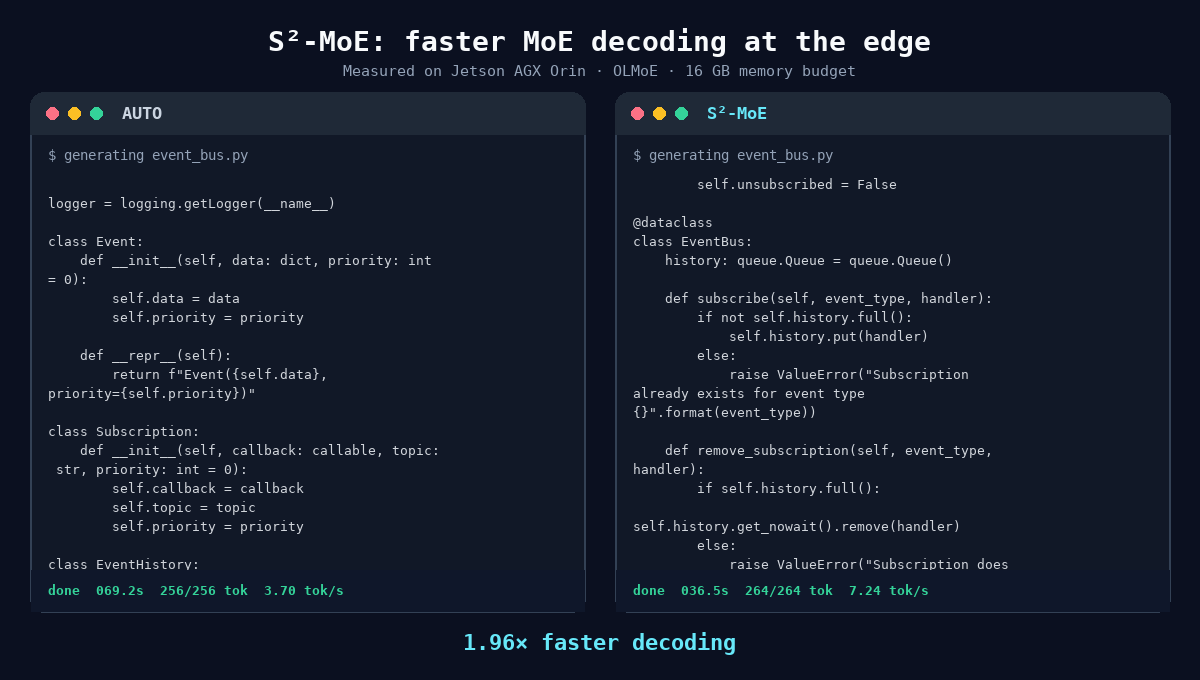
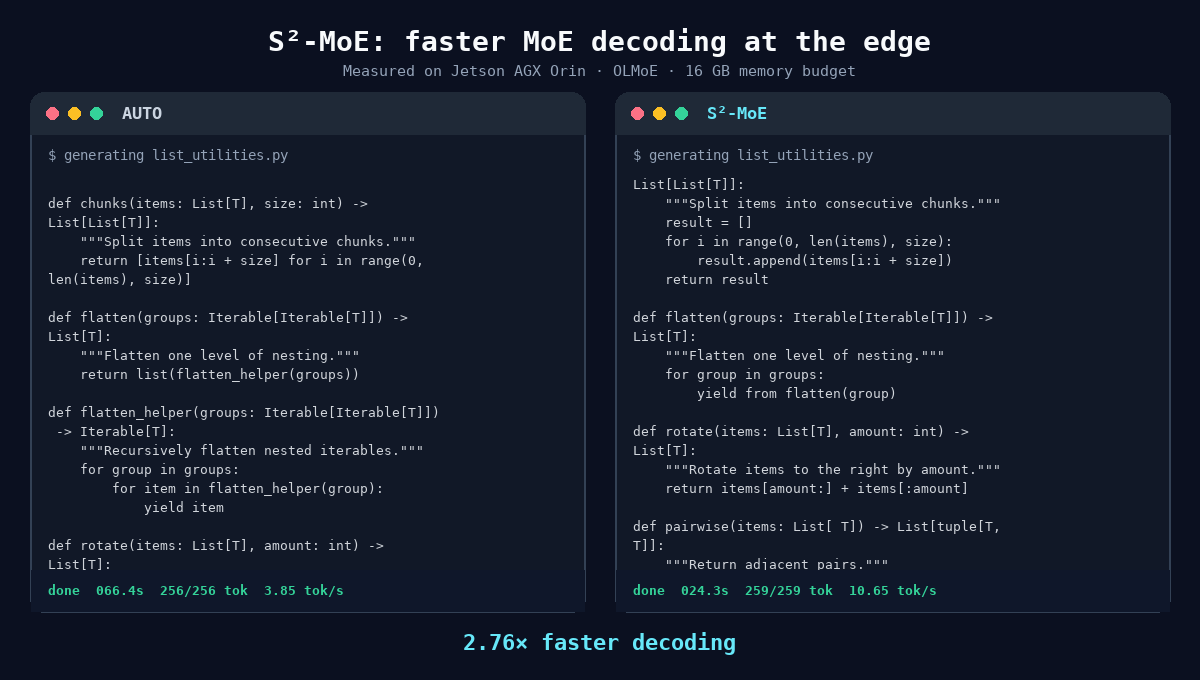
docs: highlight representative S2-MoE results

diff --git a/README.md b/README.md
@@ -31,9 +31,9 @@ The animation replays measured OLMoE decoding traces on a Jetson AGX Orin under 
 
 ## Results at a glance
 
-![Average S²-MoE speedup by model and hardware](media/s2moe/results-at-a-glance.png)
+![Representative S²-MoE speedup on code generation and mathematical reasoning](media/s2moe/results-at-a-glance.png)
 
-The Orin bars average all seven tasks over the 16, 32, and 64 GB memory budgets. The RTX 4090 bars average the same seven tasks. Auto is normalized to 1.0×. See the [paper](paper/s2moe.pdf) for the complete per-task and per-budget results.
+The chart highlights two representative workloads from the complete evaluation: HumanEval code generation (HE) and mathematical reasoning (MA). It reports the paper's end-to-end results for a 16 GB Jetson AGX Orin and a single RTX 4090; Auto is normalized to 1.0×. See the [paper](paper/s2moe.pdf) for all seven tasks and every memory budget.
 
 ## Quick start
 
